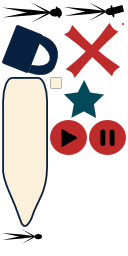
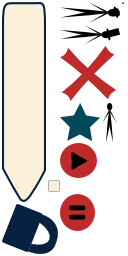
Next button looks good

diff --git a/assets/duelist.json.js b/assets/duelist.json.js
@@ -2,5 +2,5 @@ goog.provide('lime.ASSETS.duelist.json');
 goog.require('soy');
 
 lime.ASSETS.duelist.json.data = function(opt_data) { 
-return JSON.parse("{\"frames\":{\"antag.png\":{\"trimmed\":false,\"frame\":{\"y\":2,\"x\":2,\"w\":21,\"h\":60},\"rotated\":true,\"sourceSize\":{\"h\":60,\"w\":21},\"spriteSourceSize\":{\"y\":0,\"x\":0,\"w\":21,\"h\":60}},\"lock.png\":{\"trimmed\":false,\"frame\":{\"y\":25,\"x\":2,\"w\":50,\"h\":56},\"rotated\":true,\"sourceSize\":{\"h\":56,\"w\":50},\"spriteSourceSize\":{\"y\":0,\"x\":0,\"w\":50,\"h\":56}},\"next.png\":{\"trimmed\":false,\"frame\":{\"y\":77,\"x\":2,\"w\":150,\"h\":46},\"rotated\":true,\"sourceSize\":{\"h\":46,\"w\":150},\"spriteSourceSize\":{\"y\":0,\"x\":0,\"w\":150,\"h\":46}},\"pause.png\":{\"trimmed\":false,\"frame\":{\"y\":120,\"x\":89,\"w\":37,\"h\":35},\"rotated\":false,\"sourceSize\":{\"h\":35,\"w\":37},\"spriteSourceSize\":{\"y\":0,\"x\":0,\"w\":37,\"h\":35}},\"play.png\":{\"trimmed\":false,\"frame\":{\"y\":120,\"x\":50,\"w\":37,\"h\":35},\"rotated\":false,\"sourceSize\":{\"h\":35,\"w\":37},\"spriteSourceSize\":{\"y\":0,\"x\":0,\"w\":37,\"h\":35}},\"protag.png\":{\"trimmed\":false,\"frame\":{\"y\":2,\"x\":64,\"w\":19,\"h\":60},\"rotated\":true,\"sourceSize\":{\"h\":60,\"w\":19},\"spriteSourceSize\":{\"y\":0,\"x\":0,\"w\":19,\"h\":60}},\"star.png\":{\"trimmed\":false,\"frame\":{\"y\":80,\"x\":64,\"w\":40,\"h\":38},\"rotated\":false,\"sourceSize\":{\"h\":38,\"w\":40},\"spriteSourceSize\":{\"y\":0,\"x\":0,\"w\":40,\"h\":38}},\"bubble.png\":{\"trimmed\":false,\"frame\":{\"y\":77,\"x\":50,\"w\":12,\"h\":12},\"rotated\":false,\"sourceSize\":{\"h\":12,\"w\":12},\"spriteSourceSize\":{\"y\":0,\"x\":0,\"w\":12,\"h\":12}},\"x.png\":{\"trimmed\":false,\"frame\":{\"y\":23,\"x\":64,\"w\":55,\"h\":56},\"rotated\":true,\"sourceSize\":{\"h\":56,\"w\":55},\"spriteSourceSize\":{\"y\":0,\"x\":0,\"w\":55,\"h\":56}},\"dot.png\":{\"trimmed\":false,\"frame\":{\"y\":23,\"x\":122,\"w\":2,\"h\":2},\"rotated\":false,\"sourceSize\":{\"h\":2,\"w\":2},\"spriteSourceSize\":{\"y\":0,\"x\":0,\"w\":2,\"h\":2}},\"duelist.png\":{\"trimmed\":false,\"frame\":{\"y\":229,\"x\":2,\"w\":15,\"h\":40},\"rotated\":true,\"sourceSize\":{\"h\":40,\"w\":15},\"spriteSourceSize\":{\"y\":0,\"x\":0,\"w\":15,\"h\":40}}},\"meta\":{\"scale\":\"1\",\"format\":\"RGBA8888\",\"app\":\"http://www.codeandweb.com/texturepacker \",\"version\":\"1.0\",\"smartupdate\":\"$TexturePacker:SmartUpdate:11807d870faf92bac5d10d80aa66a26e$\",\"image\":\"duelist.png\",\"size\":{\"h\":256,\"w\":128}}}");
+return JSON.parse("{\"frames\":{\"antag.png\":{\"trimmed\":false,\"frame\":{\"y\":2,\"x\":60,\"w\":21,\"h\":60},\"rotated\":true,\"sourceSize\":{\"h\":60,\"w\":21},\"spriteSourceSize\":{\"y\":0,\"x\":0,\"w\":21,\"h\":60}},\"lock.png\":{\"trimmed\":false,\"frame\":{\"y\":204,\"x\":2,\"w\":50,\"h\":56},\"rotated\":true,\"sourceSize\":{\"h\":56,\"w\":50},\"spriteSourceSize\":{\"y\":0,\"x\":0,\"w\":50,\"h\":56}},\"next.png\":{\"trimmed\":false,\"frame\":{\"y\":2,\"x\":2,\"w\":200,\"h\":44},\"rotated\":true,\"sourceSize\":{\"h\":44,\"w\":200},\"spriteSourceSize\":{\"y\":0,\"x\":0,\"w\":200,\"h\":44}},\"pause.png\":{\"trimmed\":false,\"frame\":{\"y\":194,\"x\":60,\"w\":37,\"h\":35},\"rotated\":true,\"sourceSize\":{\"h\":35,\"w\":37},\"spriteSourceSize\":{\"y\":0,\"x\":0,\"w\":37,\"h\":35}},\"play.png\":{\"trimmed\":false,\"frame\":{\"y\":143,\"x\":60,\"w\":37,\"h\":35},\"rotated\":false,\"sourceSize\":{\"h\":35,\"w\":37},\"spriteSourceSize\":{\"y\":0,\"x\":0,\"w\":37,\"h\":35}},\"protag.png\":{\"trimmed\":false,\"frame\":{\"y\":25,\"x\":60,\"w\":19,\"h\":60},\"rotated\":true,\"sourceSize\":{\"h\":60,\"w\":19},\"spriteSourceSize\":{\"y\":0,\"x\":0,\"w\":19,\"h\":60}},\"star.png\":{\"trimmed\":false,\"frame\":{\"y\":103,\"x\":60,\"w\":40,\"h\":38},\"rotated\":false,\"sourceSize\":{\"h\":38,\"w\":40},\"spriteSourceSize\":{\"y\":0,\"x\":0,\"w\":40,\"h\":38}},\"bubble.png\":{\"trimmed\":false,\"frame\":{\"y\":180,\"x\":48,\"w\":12,\"h\":12},\"rotated\":false,\"sourceSize\":{\"h\":12,\"w\":12},\"spriteSourceSize\":{\"y\":0,\"x\":0,\"w\":12,\"h\":12}},\"x.png\":{\"trimmed\":false,\"frame\":{\"y\":46,\"x\":60,\"w\":55,\"h\":56},\"rotated\":true,\"sourceSize\":{\"h\":56,\"w\":55},\"spriteSourceSize\":{\"y\":0,\"x\":0,\"w\":55,\"h\":56}},\"dot.png\":{\"trimmed\":false,\"frame\":{\"y\":2,\"x\":122,\"w\":2,\"h\":2},\"rotated\":false,\"sourceSize\":{\"h\":2,\"w\":2},\"spriteSourceSize\":{\"y\":0,\"x\":0,\"w\":2,\"h\":2}},\"duelist.png\":{\"trimmed\":false,\"frame\":{\"y\":103,\"x\":102,\"w\":15,\"h\":40},\"rotated\":false,\"sourceSize\":{\"h\":40,\"w\":15},\"spriteSourceSize\":{\"y\":0,\"x\":0,\"w\":15,\"h\":40}}},\"meta\":{\"scale\":\"1\",\"format\":\"RGBA8888\",\"app\":\"http://www.codeandweb.com/texturepacker \",\"version\":\"1.0\",\"smartupdate\":\"$TexturePacker:SmartUpdate:a59816805265c1bb8bb3a8a29dbf7e65$\",\"image\":\"duelist.png\",\"size\":{\"h\":256,\"w\":128}}}");
 }

diff --git a/duelists.js b/duelists.js
@@ -138,7 +138,7 @@ duelists.openingScene = function() {
     this.bubbles = [];
 
     var antag_bubble = new kchodorow.lime.SpriteScale9().setFill(spriteSheet.getFrame('bubble.png'))
-        .scale9(300, 100).setPosition(230, 150);
+        .scale9(300, 100).setPosition(kWidth/2-150, 100);
     var antag_label = new lime.Label().setSize(280, 80).setPosition(150, 50)
         .setFontSize(24).setFontColor('#BF2A2A').setFontFamily('Luckiest Guy')
         .setText('You must vanquish me and all of my seconds to win the duel.');
@@ -148,10 +148,10 @@ duelists.openingScene = function() {
 
     // Next button
     var next_bubble = new lime.Sprite().setFill(spriteSheet.getFrame('next.png'))
-        .setPosition(100, 250);
-    var next_label = new lime.Label().setSize(190, 40).setPosition(100, 25)
+        .setPosition(kWidth/2, 300);
+    var next_label = new lime.Label().setSize(190, 40).setPosition(0, 10)
         .setFontSize(24).setFontColor('#092140').setFontFamily('Luckiest Guy')
-        .setText('Agree to terms');
+        .setText('Agree to duel');
     next_bubble.appendChild(next_label);
     this.scene.appendChild(next_bubble);
     this.bubbles.push(next_bubble);
